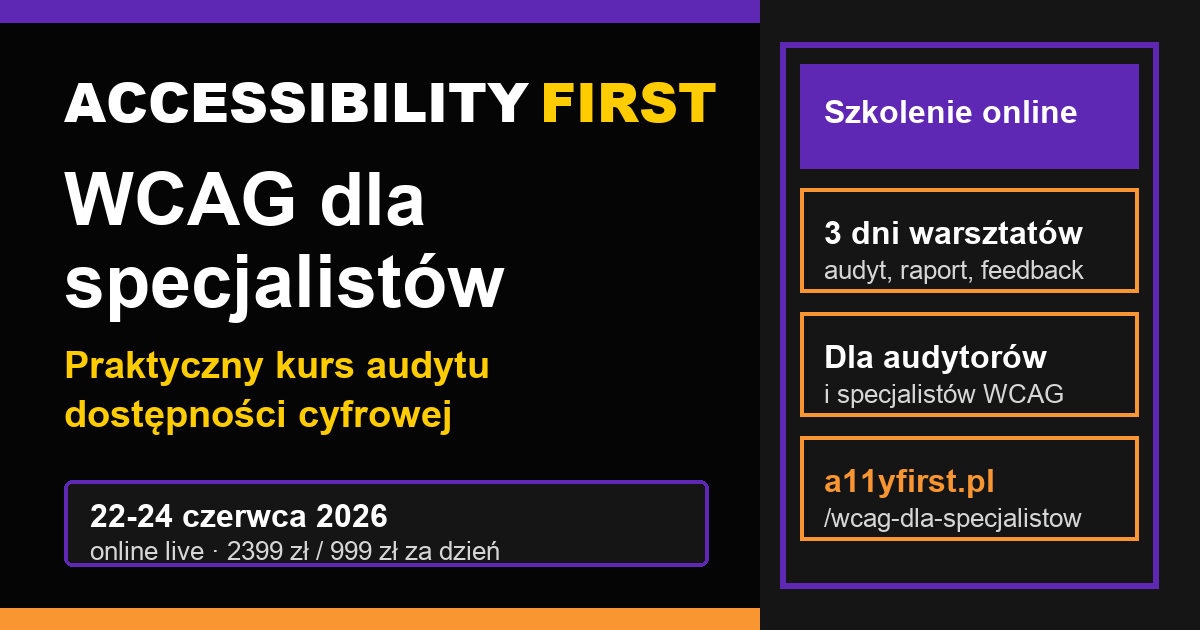
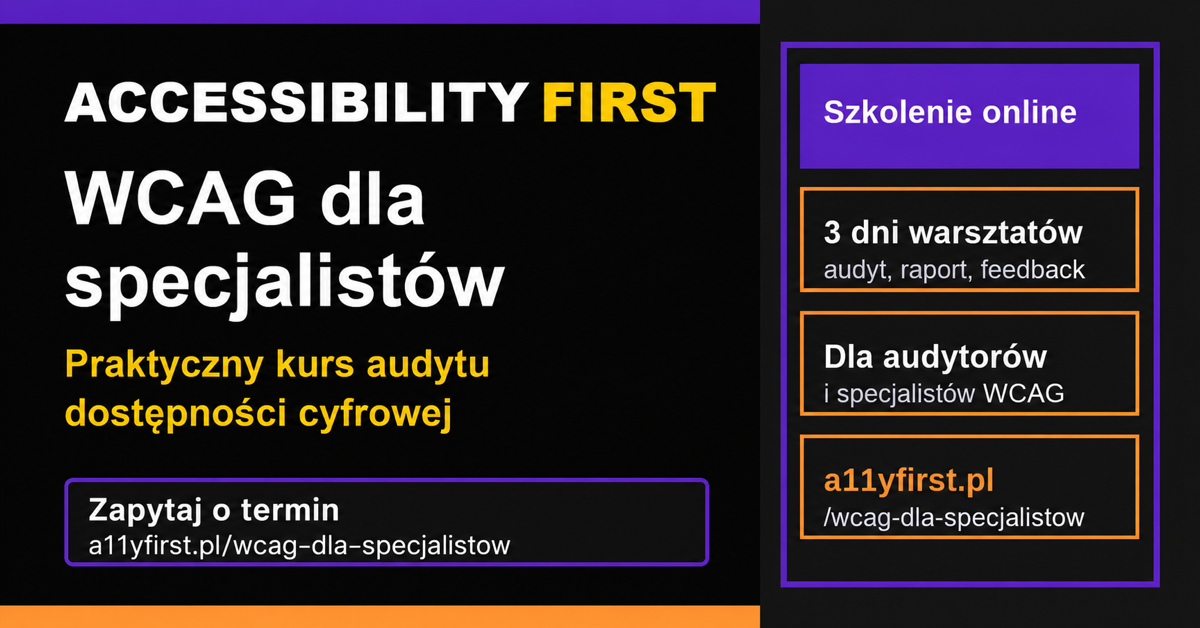
Usuń nieaktualny termin z podglądu szkolenia WCAG

diff --git a/sandbox/wcag-dla-specjalistow.html b/sandbox/wcag-dla-specjalistow.html
@@ -13,14 +13,14 @@
     <meta property="og:title" content="WCAG dla specjalistów - Praktyczny kurs audytu dostępności">
     <meta property="og:description" content="3-dniowy praktyczny kurs audytu dostępności cyfrowej. Wybierz pojedyncze dni lub pełny kurs i zdobądź gotowy proces raportowania WCAG.">
     <meta property="og:url" content="https://www.a11yfirst.pl/wcag-dla-specjalistow">
-    <meta property="og:image" content="https://www.a11yfirst.pl/assets/social-preview-wcag.png">
+    <meta property="og:image" content="https://www.a11yfirst.pl/assets/social-preview-wcag.png?v=2">
     <meta property="og:image:width" content="1200">
-    <meta property="og:image:height" content="630">
-    <meta property="og:image:alt" content="WCAG dla specjalistów. Praktyczny kurs audytu dostępności cyfrowej. 22-24 czerwca 2026, online live.">
+    <meta property="og:image:height" content="628">
+    <meta property="og:image:alt" content="Accessibility First. WCAG dla specjalistów. Praktyczny kurs audytu dostępności cyfrowej. Szkolenie online, 3 dni warsztatów. Zapytaj o termin.">
     <meta name="twitter:card" content="summary_large_image">
     <meta name="twitter:title" content="WCAG dla specjalistów - Praktyczny kurs audytu dostępności">
     <meta name="twitter:description" content="3-dniowy praktyczny kurs audytu dostępności cyfrowej. Wybierz pojedyncze dni lub pełny kurs.">
-    <meta name="twitter:image" content="https://www.a11yfirst.pl/assets/social-preview-wcag.png">
+    <meta name="twitter:image" content="https://www.a11yfirst.pl/assets/social-preview-wcag.png?v=2">
     <script type="application/ld+json">
     {
       "@context": "https://schema.org",

diff --git a/public/wcag-dla-specjalistow.html b/public/wcag-dla-specjalistow.html
@@ -17,14 +17,14 @@
     <meta property="og:title" content="WCAG dla specjalistów - Praktyczny kurs audytu dostępności">
     <meta property="og:description" content="3-dniowy praktyczny kurs audytu dostępności cyfrowej. Wybierz pojedyncze dni lub pełny kurs i zdobądź gotowy proces raportowania WCAG.">
     <meta property="og:url" content="https://www.a11yfirst.pl/wcag-dla-specjalistow">
-    <meta property="og:image" content="https://www.a11yfirst.pl/assets/social-preview-wcag.png">
+    <meta property="og:image" content="https://www.a11yfirst.pl/assets/social-preview-wcag.png?v=2">
     <meta property="og:image:width" content="1200">
-    <meta property="og:image:height" content="630">
-    <meta property="og:image:alt" content="WCAG dla specjalistów. Praktyczny kurs audytu dostępności cyfrowej, online live.">
+    <meta property="og:image:height" content="628">
+    <meta property="og:image:alt" content="Accessibility First. WCAG dla specjalistów. Praktyczny kurs audytu dostępności cyfrowej. Szkolenie online, 3 dni warsztatów. Zapytaj o termin.">
     <meta name="twitter:card" content="summary_large_image">
     <meta name="twitter:title" content="WCAG dla specjalistów - Praktyczny kurs audytu dostępności">
     <meta name="twitter:description" content="3-dniowy praktyczny kurs audytu dostępności cyfrowej. Wybierz pojedyncze dni lub pełny kurs.">
-    <meta name="twitter:image" content="https://www.a11yfirst.pl/assets/social-preview-wcag.png">
+    <meta name="twitter:image" content="https://www.a11yfirst.pl/assets/social-preview-wcag.png?v=2">
     <script type="application/ld+json">
     {
       "@context": "https://schema.org",
